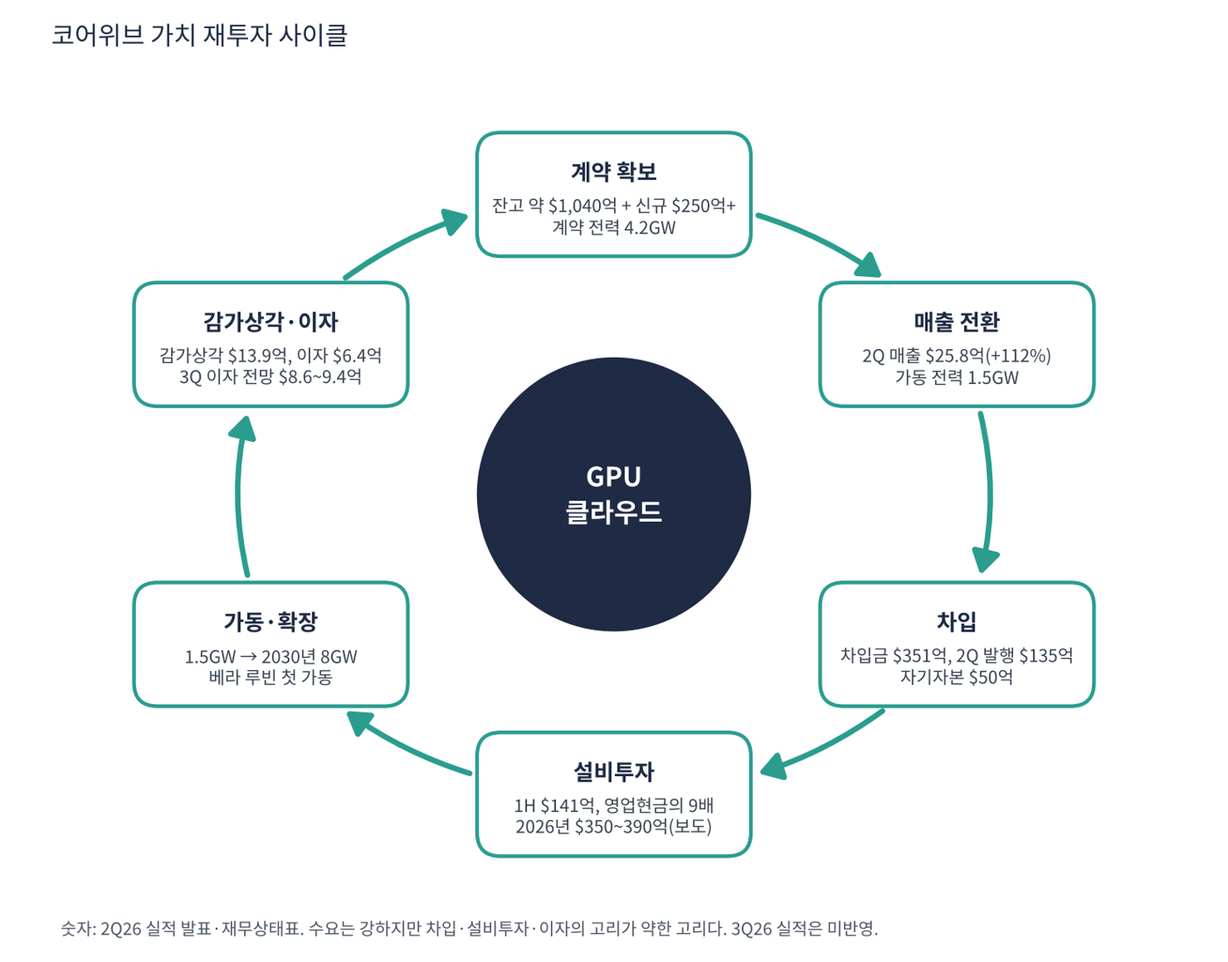
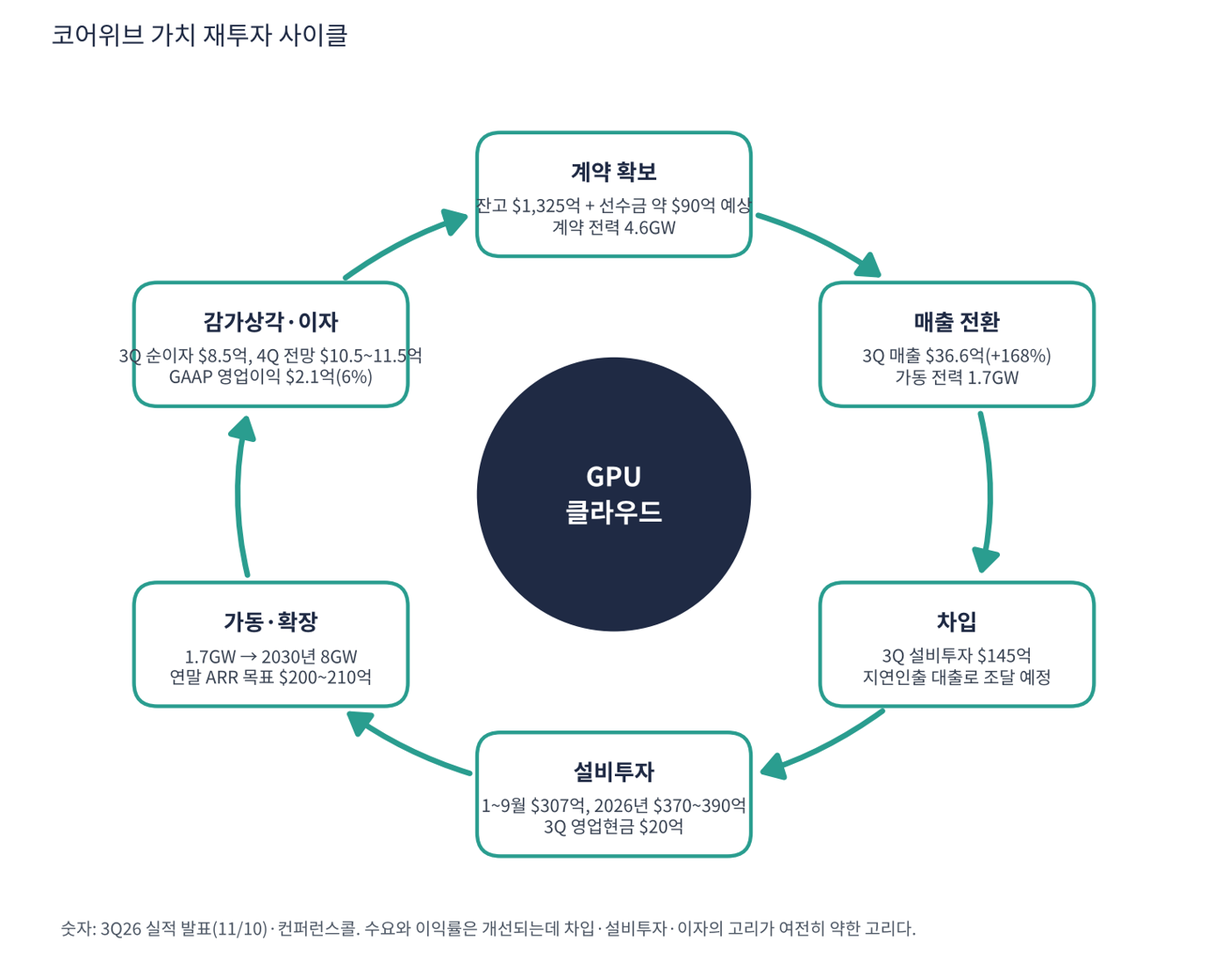
CRWV 3Q26 실적 반영 (11/10 종가 기준)
Claude-Session: https://claude.ai/code/session_018spZhVx3tUdVWG7ajikTu3

diff --git a/content/crwv/body.html b/content/crwv/body.html
@@ -1,18 +1,18 @@
 <div class="kicker">COREWEAVE, INC. · NASDAQ: CRWV · 기업분석 (10항목 심층 양식)</div>
-<h1>코어위브 기업분석: 수요는 폭발, 현금은 한 분기, 이자가 영업이익의 5배</h1>
-<div class="meta"><b>자료</b> 코어위브 SEC 8-K 실적 발표문(3Q25 ~ 2Q26, 전년 동기 열로 3Q24부터 8개 분기 확보, 인트레이터 CEO 코멘트), 2Q26 재무상태표·현금흐름표, 코어위브 보도자료(2026.8 계약 전력·단기 계약 단가), 트레이딩뷰 스캐너(EBITDA·FCF·부채·동종업계), 트레이딩뷰 CRWV 일봉·주봉(2026.11.06 종가) &nbsp;|&nbsp; <b>작성일</b> 2026.11.10<br>PEG 판정 기준: 1.0 이하 투자 적격, 0.5 이하 적극 매수. <b>3분기(2026년 7~9월) 실적은 미국 시간 11/10 장 마감 후 발표라 반영하지 못했다.</b> 2026년 설비투자·이자·연말 매출 목표는 컨퍼런스콜 내용을 인용한 보도 기준이다. 매매 권유가 아니다.</div>
-<div class="dark"><div class="lab">한 줄 요약</div><div class="txt">AI 연산을 빌려주는 GPU 클라우드다. 매출이 2년 만에 4.4배가 되고 계약 잔고가 $1,040억이지만 회사는 순손실이고 부채 $351억·자기자본 $50억의 구조다. 한 분기 FCF(-$57억)가 현금($55억)과 같고 이자($6.4억)가 조정 영업이익($1.3억)의 5배다. 주가는 5월 고점에서 66% 빠져 신저가권이며 CTA는 -1.00이고 3분기 실적은 아직 반영되지 않았다.</div></div>
-<div class="box"><b class="t">핵심 포인트</b><ol><li><b>재무</b>: 2Q26 매출 $25.8억(+112%), 조정 EBITDA $15.1억(59%), 영업손실 -$0.5억, 순손실 -$6.3억. 이자비용 $6.4억 > 조정 영업이익.</li><li><b>현금·P/S</b>: 현금 $55.2억, 분기 FCF -$57.4억(런웨이 약 1분기), TTM FCF -$136.6억. P/S 3.4배.</li><li><b>EBITDA·PEG</b>: EBITDA $37.6억(TTM). PEG 산출 불가(순손실). 영업 손익분기에는 EBITDA 연 $92억 필요.</li><li><b>사이클</b>: 장기 계약 → 차입 → 설비투자 → 가동 → 매출. 약한 고리는 부채·설비투자·이자.</li><li><b>차트</b>: 8개 신호 모두 매도, 200일선의 절반 가격. 실적 확인 후 $48~52 분할 진입(비중 30%), 목표 $55/$61, 손절 $38.</li></ol></div>
+<h1>코어위브 기업분석: 수요·이익률은 개선, 이자는 여전히 GAAP 영업이익의 4배</h1>
+<div class="meta"><b>자료</b> 코어위브 SEC 8-K 실적 발표문(3Q26 실적은 8-K 원문이 아닌 언론·콜 요약 보도 인용, 2Q26까지는 8-K와 전년 동기 열로 8개 분기 확보), 2Q26 재무상태표(3Q26 재무상태표는 미확인), 코어위브 보도자료(2026.8 단기 계약 단가), 트레이딩뷰 스캐너(EBITDA·FCF·부채·동종업계), 트레이딩뷰 CRWV 일봉·주봉(2026.11.10 종가) &nbsp;|&nbsp; <b>작성일</b> 2026.11.11<br>PEG 판정 기준: 1.0 이하 투자 적격, 0.5 이하 적극 매수. <b>주가는 3분기 실적 발표 전 11/10 종가다.</b> 3분기 영업현금·설비투자·4분기 전망은 콜 내용을 인용한 보도 기준이고 TTM FCF·런웨이·손익분기는 내 계산이다. 매매 권유가 아니다.</div>
+<div class="dark"><div class="lab">한 줄 요약</div><div class="txt">AI 연산을 빌려주는 GPU 클라우드다. 3분기 매출 $36.6억(+169%), 계약 잔고 $1,325억, GAAP 영업이익은 흑자로 돌아섰지만 순손실 -$7.1억이고 6월 말 기준 부채 $351억·자기자본 $50억의 구조다. 3분기 FCF(-$125억)가 6월 말 현금($55억)의 2배를 넘고 이자($8.5억)가 GAAP 영업이익($2.1억)의 4배다. 주가는 5월 고점 대비 65% 낮은 신저가권이고 CTA는 -1.00이며 주가는 실적 발표 전 가격이다.</div></div>
+<div class="box"><b class="t">핵심 포인트</b><ol><li><b>재무</b>: 3Q26 매출 $36.6억(+169%), 조정 EBITDA $23.0억(63%), GAAP 영업이익 $2.1억, 순손실 -$7.1억, EPS -1.27. 이자비용 $8.5억 > 영업이익.</li><li><b>현금·P/S</b>: 3Q 설비투자 $145.1억, FCF -$125.1억(6월 말 현금 $55.2억 기준 런웨이 약 0.4분기), TTM FCF -$254.7억. P/S 2.7배.</li><li><b>EBITDA·PEG</b>: TTM 조정 EBITDA $58.7억. PEG 산출 불가(순손실). 순이익 0에는 EBITDA 연 $111억 필요.</li><li><b>사이클</b>: 장기 계약 → 차입 → 설비투자 → 가동 → 매출. 약한 고리는 부채·설비투자·이자.</li><li><b>차트</b>: 8개 신호 모두 매도, 200일선 대비 -46%. 실적 반응 확인 후 $46~50 분할 진입(비중 30%), 목표 $56/$62, 손절 $38.</li></ol></div>
 
 <h2><span class="n">01</span>어떤 회사인가</h2>
 <p>코어위브는 원래 암호화폐 채굴 회사로 시작해 2019년 이후 GPU를 AI 기업에 빌려주는 사업으로 전환한 'GPU 클라우드' 회사다. 엔비디아가 투자했고 최신 GPU를 가장 먼저 대량으로 받는 곳 중 하나다. 2025년 3월 나스닥에 상장했고 2026년 나스닥-100에 편입됐다. 마이크로소프트·오픈AI·메타 같은 대형 고객과 수년짜리 계약을 맺고 <b>그 계약을 담보로 돈을 빌려 데이터센터를 짓는</b> 구조다.</p><table><tr><th style="width:20%">항목</th><th>내용</th></tr>
 <tr><td><b>종목</b></td><td>CoreWeave, Inc. (CRWV) · NASDAQ · AI 클라우드 · 2017년 설립 · 본사 뉴저지주 리빙스턴</td></tr>
-<tr><td><b>시가총액</b></td><td>약 $256억 · 순손실이라 PER 없음 · P/S 3.4배 (11/6 종가 $46.40)</td></tr>
-<tr><td><b>최근 발표 분기(2Q26)</b></td><td>매출 $25.8억(+112%), 조정 EBITDA $15.1억(마진 59%), 영업손실 -$0.5억, 순손실 -$6.3억</td></tr>
-<tr><td><b>계약 잔고</b></td><td>약 $1,040억(6월 말) + 7월 초 신규 약정 $250억 이상(잔고 미반영). 계약 전력 3.7GW → 4.2GW(8월), 가동 전력 1.5GW</td></tr>
-<tr><td><b>재무 구조(6월 말)</b></td><td>현금 $55.2억, 차입금 $351억, 리스 부채 약 $163억, 자기자본 $50억</td></tr>
+<tr><td><b>시가총액</b></td><td>약 $269억 · 순손실이라 PER 없음 · P/S 2.7배 (11/10 종가 $48.73, 3분기 실적 발표 전 가격)</td></tr>
+<tr><td><b>최근 발표 분기(3Q26)</b></td><td>매출 $36.6억(+169%), 조정 EBITDA $23.0억(마진 63%), GAAP 영업이익 $2.1억(흑자 복귀), 순손실 -$7.1억, EPS -1.27</td></tr>
+<tr><td><b>계약 잔고</b></td><td>$1,325억(9월 말, 6월 말 약 $1,040억에서 증가). 계약 전력 4.6GW, 가동 전력 1.7GW</td></tr>
+<tr><td><b>재무 구조(6월 말, 3분기 재무상태표는 확인 못 함)</b></td><td>현금 $55.2억, 차입금 $351억, 리스 부채 약 $163억, 자기자본 $50억</td></tr>
 <tr><td><b>주요 고객</b></td><td>마이크로소프트(2024년 매출의 약 62%), 오픈AI(누적 계약 약 $224억), 메타(약 $142억 계약), 2026년에는 제인 스트리트·데이터브릭스·캐터필러 등 기업 고객 확대 (2025년 공시·보도 기준)</td></tr>
-<tr><td><b>다음 실적</b></td><td>3Q26 실적: 미국 시간 11/10 장 마감 후(오후 5시 ET 컨퍼런스콜). <b>이 보고서에는 반영하지 못했다</b></td></tr>
+<tr><td><b>다음 실적</b></td><td>4Q26 실적: 2027년 2~3월 예상(일정 미확정). 3Q 실적은 11/10 장 마감 후 발표돼 <b>주가(11/10 종가)에는 아직 반영되지 않았다</b></td></tr>
 </table>
 
 
@@ -20,21 +20,20 @@
 <table><tr><th style="width:20%">직책</th><th style="width:16%">인물</th><th>역할·특징</th></tr>
 <tr><td>공동 창업자·회장 겸 CEO</td><td><b>마이클 인트레이터</b></td><td>채굴업에서 GPU 클라우드로 전환을 이끈 창업자. 2분기에 "규모가 운영 레버리지로 바뀌기 시작하는 변곡점에 도달했다"고 말함</td></tr>
 </table>
-<p><b>경영 스타일: '계약을 먼저 확보하고, 그 계약으로 돈을 빌려 짓는다'.</b> 한 분기에 가동 전력을 약 500MW 늘렸고, 2분기에만 부채 $135억을 발행했다. 제인 스트리트 $10억 지분 투자, 무담보 채권·전환사채 $100억 이상, HPC 인프라 담보 최초의 공모 신디케이트 대출 $31억 등 조달 경로를 계속 넓힌다. 회사는 가이던스를 보도자료가 아닌 컨퍼런스콜에서만 제시한다. 2분기 이후 보도된 전망은 2026년 설비투자 $350~390억(2분기에 범위 상단 초과 후 상향), 3분기 이자비용 $8.6~9.4억(2분기 $6.4억), 2026년 말 연환산 매출 $185~195억이며, 이 수치는 컨퍼런스콜 원문이 아니라 보도 인용이라 3분기 콜에서 재확인이 필요하다.</p><div class="two"><div class="card"><h4>기술: AI 전용으로 설계한 GPU 클라우드</h4><p>범용 클라우드와 달리 처음부터 GPU 학습·추론용으로 설계했다. 엔비디아 베라 루빈 NVL72를 업계 최초로 가동 검증했고, 학습 작업 관리(SUNK)·스토리지·에이전트 도구(ARIA·샌드박스)를 얹어 GPU 임대의 '상품화'를 막는다.</p></div><div class="card"><h4>비전: AI 시대의 '전력·연산 유틸리티'</h4><p>2030년 8GW 이상의 전력을 확보해 AI 연산을 수도·전기처럼 공급하는 것이 목표다. 구글 클라우드와 전용 회선으로 연결하는 등 멀티 클라우드로 하이퍼스케일러를 보완한다. 유틸리티처럼 자본이 먼저 들어가는 사업이라 자본 조달 비용이 성패를 가른다.</p></div></div>
+<p><b>경영 스타일: '계약을 먼저 확보하고, 그 계약으로 돈을 빌려 짓는다'.</b> 3분기 계약 전력은 4.6GW, 가동 전력은 1.7GW(2분기 1.5GW)로 늘었다. 2분기에만 부채 $135억을 발행했다. 제인 스트리트 $10억 지분 투자, 무담보 채권·전환사채 $100억 이상, HPC 인프라 담보 최초의 공모 신디케이트 대출 $31억 등 조달 경로를 계속 넓힌다. 회사는 가이던스를 보도자료가 아닌 컨퍼런스콜에서만 제시한다. 3분기 발표 후 보도된 내용은 4분기 설비투자 약 $73.5억(연간 전망에서 누계를 뺀 역산), 3분기 이자비용 $8.5억(직전 전망 $8.6~9.4억 하단 아래)이다. 이 수치는 8-K 원문이 아니라 언론·콜 요약 보도(Investing.com, CNBC, Benzinga 등) 인용이라 회사 자료로 재확인이 필요하다.</p><div class="two"><div class="card"><h4>기술: AI 전용으로 설계한 GPU 클라우드</h4><p>범용 클라우드와 달리 처음부터 GPU 학습·추론용으로 설계했다. 엔비디아 베라 루빈 NVL72를 업계 최초로 가동 검증했고, 학습 작업 관리(SUNK)·스토리지·에이전트 도구(ARIA·샌드박스)를 얹어 GPU 임대의 '상품화'를 막는다.</p></div><div class="card"><h4>비전: AI 시대의 '전력·연산 유틸리티'</h4><p>2030년 8GW 이상의 전력을 확보해 AI 연산을 수도·전기처럼 공급하는 것이 목표다. 구글 클라우드와 전용 회선으로 연결하는 등 멀티 클라우드로 하이퍼스케일러를 보완한다. 유틸리티처럼 자본이 먼저 들어가는 사업이라 자본 조달 비용이 성패를 가른다.</p></div></div>
 
 <h2><span class="n">03</span>재무 흐름: 최근 8개 분기</h2>
 <table><tr><th>분기</th><th class="r">매출</th><th class="r">조정 EBITDA</th><th class="r">영업이익</th><th class="r">이자비용</th><th class="r">순손익</th><th class="r">EPS</th><th class="r">설비투자</th><th>특이 사항</th></tr>
-<tr><td>2024.3Q</td><td class="r">$5.8억</td><td class="r">$3.8억</td><td class="r">$1.2억</td><td class="r">$1.0억</td><td class="r">-$3.6억</td><td class="r">-1.82</td><td class="r">$12.2억</td><td>상장 전</td></tr>
 <tr><td>2024.4Q</td><td class="r">$7.5억</td><td class="r">$4.9억</td><td class="r">$1.1억</td><td class="r">$1.5억</td><td class="r">-$0.5억</td><td class="r">-0.24*</td><td class="r">$35.0억</td><td></td></tr>
 <tr><td>2025.1Q</td><td class="r">$9.8억</td><td class="r">$6.1억</td><td class="r">-$0.3억</td><td class="r">$2.6억</td><td class="r">-$3.2억</td><td class="r">-1.49</td><td class="r">$14.1억</td><td>3월 상장</td></tr>
 <tr><td>2025.2Q</td><td class="r">$12.1억</td><td class="r">$7.5억</td><td class="r">$0.2억</td><td class="r">$2.7억</td><td class="r">-$2.9억</td><td class="r">-0.60</td><td class="r">$24.5억</td><td></td></tr>
 <tr><td>2025.3Q</td><td class="r">$13.6억</td><td class="r">$8.4억</td><td class="r">$0.5억</td><td class="r">$3.1억</td><td class="r">-$1.1억</td><td class="r">-0.22</td><td class="r">$32.8억</td><td>잔고 $550억+</td></tr>
 <tr><td>2025.4Q</td><td class="r">$15.7억</td><td class="r">$9.0억</td><td class="r">-$0.9억</td><td class="r">$3.9억</td><td class="r">-$4.5억</td><td class="r">-0.50*</td><td class="r">$40.6억</td><td>잔고 $668억</td></tr>
 <tr><td>2026.1Q</td><td class="r">$20.8억</td><td class="r">$11.6억</td><td class="r">-$1.4억</td><td class="r">$5.4억</td><td class="r">-$7.4억</td><td class="r">-1.40</td><td class="r">$77.0억</td><td>잔고 약 $1,000억</td></tr>
-<tr class="hl"><td>2026.2Q</td><td class="r">$25.8억</td><td class="r">$15.1억</td><td class="r">-$0.5억</td><td class="r">$6.4억</td><td class="r">-$6.3억</td><td class="r">-1.14</td><td class="r">$64.2억</td><td>잔고 약 $1,040억</td></tr>
+<tr><td>2026.2Q</td><td class="r">$25.8억</td><td class="r">$15.1억</td><td class="r">-$0.5억</td><td class="r">$6.4억</td><td class="r">-$6.3억</td><td class="r">-1.14</td><td class="r">$64.2억</td><td>잔고 약 $1,040억</td></tr>
+<tr class="hl"><td>2026.3Q</td><td class="r">$36.6억</td><td class="r">$23.0억</td><td class="r">$2.1억</td><td class="r">$8.5억</td><td class="r">-$7.1억</td><td class="r">-1.27</td><td class="r">$145.1억</td><td>잔고 $1,325억</td></tr>
 </table>
-<p class="note">EPS는 희석 주당순이익(GAAP, SEC 제출 자료 기준)이다. *는 4분기를 '연간 EPS − 1~3분기 합'으로 계산한 근사치라 실제 발표값과 다를 수 있다.</p>
-<img class="ch" src="c_rev.png"><img class="ch" src="c_cf.png"><p><b>흐름 요약</b>: 매출은 폭발적으로 늘지만 이익은 따라오지 않는다. 2년 동안 매출이 4.4배가 됐는데 영업이익은 $1.2억 흑자에서 $0.5억 적자로 바뀌었다. 이유는 감가상각비(분기 $5.6억 → $13.9억, 2.5배)와 이자비용($1.0억 → $6.4억, 6배)이다. GPU 서버는 5~6년에 걸쳐 비용 처리되는데 새로 산 서버가 매출을 내기 전에 비용이 먼저 잡힌다. <b>사업 자체의 현금 마진은 좋다</b>. 조정 EBITDA 마진이 56~65%다. 문제는 그 아래다. EBITDA에서 감가상각과 이자를 빼면 순이익률이 -24%다. 현금흐름은 빚이 메운다. 2분기 영업현금 $6.8억에 설비투자 $64.2억, 차이 $57억을 부채로 조달했다. 1분기 영업현금 $29.8억에는 고객 선수금이 크게 들어왔고, 재무상태표의 이연 매출은 $97억이다.</p><table><tr><th>재무상태표 (2026.6.30)</th><th class="r">금액</th><th>의미</th></tr>
+<p class='note'>EPS는 희석 주당순이익(GAAP, SEC 제출 자료 기준)이다. *는 4분기를 '연간 EPS − 1~3분기 합'으로 계산한 근사치라 실제 발표값과 다를 수 있다. 영업이익은 GAAP 기준이다.</p><img class="ch" src="c_rev.png"><img class="ch" src="c_cf.png"><p><b>흐름 요약</b>: 3분기에 GAAP 영업이익이 흑자(+$2.1억)로 돌아섰다(2025년 3분기 이후 첫 흑자). 매출이 7분기 만에 4.9배($7.5억 → $36.6억)가 되는 동안 이자비용도 5.7배($1.5억 → $8.5억)로 늘었다. 영업이익이 흑자가 됐지만 이자가 영업이익의 4배라 <b>순손실은 -$7.1억(순이익률 -19%)으로 오히려 커졌다</b>. <b>사업 자체의 현금 마진은 좋다</b>. 조정 EBITDA 마진이 3분기 63%로 2분기(59%)보다 올랐다. 문제는 그 아래다. 조정 EBITDA $23.0억에서 감가상각 등 약 $19.2억을 빼면 조정 영업이익 $3.8억(10%)이고, 이자 $8.5억을 빼면 적자다. 현금흐름은 빚이 메운다. 3분기 영업현금 약 $20억에 설비투자 $145.1억(분기 최대, 2분기의 2.3배), 차이 $125억을 외부 조달로 메웠다(조달 내역은 확인 못 함). 6월 말 이연 매출은 $97억이었다.</p><table><tr><th>재무상태표 (2026.6.30, 3Q 미확인)</th><th class="r">금액</th><th>의미</th></tr>
 <tr><td>현금·현금성자산</td><td class="r">$55.2억</td><td>연초 $31.3억에서 증가(부채 조달)</td></tr>
 <tr><td>유형자산(GPU·데이터센터)</td><td class="r">$467억</td><td>연초 $306억에서 6개월 만에 +53%</td></tr>
 <tr><td>차입금(소구 + 비소구)</td><td class="r">$351억</td><td>소구 $314억 + 비소구 $37억</td></tr>
@@ -45,14 +44,14 @@
 
 <h2><span class="n">04</span>매출 구조</h2>
 <table><tr><th style="width:18%">구성</th><th>돈을 버는 방식</th></tr>
-<tr><td><b>장기 약정 계약</b></td><td>고객이 GPU 용량을 2~5년간 쓰기로 약정하고 매달 요금을 낸다. 매출의 대부분이며 계약 잔고(약 $1,040억)의 원천. 일부는 선금으로 받는다</td></tr>
+<tr><td><b>장기 약정 계약</b></td><td>고객이 GPU 용량을 2~5년간 쓰기로 약정하고 매달 요금을 낸다. 매출의 대부분이며 계약 잔고($1,325억)의 원천. 일부는 선금으로 받는다</td></tr>
 <tr><td><b>주문형(On-demand)</b></td><td>약정 없이 쓰는 만큼 내는 사용료. 비중은 작다. 3분기 중 약 3~6개월짜리 단기 계약을 메가와트당 연 약 $4,000만 가격으로 맺었다고 회사가 발표(보도자료)</td></tr>
 <tr><td><b>소프트웨어·서비스</b></td><td>SUNK(학습 작업 관리), 관측·스토리지, ARIA·샌드박스 등 에이전트 AI 도구. GPU 임대에 얹어 파는 구조</td></tr>
 </table>
-<img class="ch" src="c_mix.png"><p><b>코어위브의 매출은 전력(MW)에 비례한다.</b> 데이터센터 전력이 곧 GPU를 꽂을 수 있는 용량이다. 가동 전력은 1년 사이 약 590MW(3Q25)에서 1.5GW(2Q26)로 2.5배가 됐고 계약 전력은 3.7GW(6월 말)에서 4.2GW(8월 11일)로 늘었다. 계약 전력이 모두 가동되면 매출이 지금의 2배 이상이 될 수 있다. 반대로 데이터센터 완공이 늦어지면 매출 인식이 미뤄진다. 2025년 11월 주가 급락이 그런 사례였다. 주요 고객 집중이 높아 소수 고객이 잔고 대부분을 차지한다.</p>
+<img class="ch" src="c_mix.png"><p><b>코어위브의 매출은 전력(MW)에 비례한다.</b> 데이터센터 전력이 곧 GPU를 꽂을 수 있는 용량이다. 가동 전력은 1년 사이 약 590MW(3Q25)에서 1.7GW(3Q26)로 2.9배가 됐고 계약 전력은 3.7GW(2Q26)에서 4.6GW(3Q26)로 늘었다. 계약 전력 4.6GW 중 가동 1.7GW라, 모두 가동되면 매출이 지금의 2배 이상이 될 수 있다(내 추정). 반대로 데이터센터 완공이 늦어지면 매출 인식이 미뤄진다. 2025년 11월 주가 급락이 그런 사례였다. 주요 고객 집중이 높아 소수 고객이 잔고 대부분을 차지한다.</p>
 
 <h2><span class="n">05</span>회사의 궁극적 목적</h2>
-<p>인트레이터 CEO의 2분기 메시지는 "AI가 모든 산업의 기반이 되고, 그 잠재력을 실현하려면 목적에 맞게 설계된 플랫폼이 필요하다"는 것이다. 코어위브가 가려는 곳은 <b>GPU 임대업자에서 'AI 시대의 전력·연산 유틸리티'</b>다.</p><table><tr><th style="width:18%">축</th><th>내용</th></tr>
+<p>인트레이터 CEO의 메시지는 "AI가 모든 산업의 기반이 되고, 그 잠재력을 실현하려면 목적에 맞게 설계된 플랫폼이 필요하다"는 것이다. 코어위브가 가려는 곳은 <b>GPU 임대업자에서 'AI 시대의 전력·연산 유틸리티'</b>다.</p><table><tr><th style="width:18%">축</th><th>내용</th></tr>
 <tr><td>AI 전용 클라우드</td><td>범용 클라우드와 달리 처음부터 GPU 학습·추론용으로 설계. 토큰당 비용과 성능 기록을 내세움</td></tr>
 <tr><td>엔비디아 최신 GPU 선점</td><td>베라 루빈 NVL72 업계 최초 가동 검증. 새 GPU를 가장 빨리 고객에게 공급하는 것이 경쟁력</td></tr>
 <tr><td>멀티 클라우드</td><td>구글 클라우드와 전용 회선 연결, 다른 클라우드에서도 SUNK·데이터 가속 사용. 하이퍼스케일러와 경쟁하면서 보완</td></tr>
@@ -61,37 +60,37 @@
 <div class="box"><b class="t">정리 — 코어위브가 가려는 곳</b><br>GPU 임대업자 → <b>2030년 8GW 이상의 AI 연산 유틸리티</b>. 유틸리티처럼 막대한 자본이 먼저 들어가는 사업이라 자본 조달 비용이 성패를 가른다. 지금까지 수요를 의심하는 경영진 코멘트는 없었고, 시장이 의심하는 것은 수요를 채울 돈과 시간이다.</div>
 
 <h2 class="pb"><span class="n">06</span>CTA 방식 차트 분석</h2>
-<img class="ch" src="c_price.png"><img class="ch" src="tv_clean.jpg"><p class="small">위: 트레이딩뷰 주봉 데이터로 재구성(10·20·40주선). 아래: 트레이딩뷰 공개 차트 일봉 캡처(작도 숨김, 이동평균선·볼린저밴드만 표시).</p><h3>1. 이동평균선 배열</h3><table><tr><th>이동평균</th><th class="r">값</th><th class="r">종가 대비</th><th>해석</th></tr>
-<tr><td>5일선</td><td class="r">$48.47</td><td class="r">-4.3%</td><td>신저가 후 첫 반등(+6.3%)</td></tr>
-<tr><td>20일선</td><td class="r">$59.33</td><td class="r">-21.8%</td><td>10월 갭 하락 구간</td></tr>
-<tr><td>50일선</td><td class="r">$75.56</td><td class="r">-38.6%</td><td>9~10월 박스($80~90) 아래</td></tr>
-<tr><td>100일선</td><td class="r">$82.03</td><td class="r">-43.4%</td><td></td></tr>
-<tr><td>200일선</td><td class="r">$90.17</td><td class="r">-48.5%</td><td>주가의 거의 2배</td></tr>
+<img class="ch" src="c_price.png"><h3>1. 이동평균선 배열</h3><table><tr><th>이동평균</th><th class="r">값</th><th class="r">종가 대비</th><th>해석</th></tr>
+<tr><td>5일선</td><td class="r">$47.24</td><td class="r">+3.2%</td><td>신저가 후 반등으로 회복</td></tr>
+<tr><td>20일선</td><td class="r">$56.31</td><td class="r">-13.5%</td><td>10월 갭 하락 구간</td></tr>
+<tr><td>50일선</td><td class="r">$74.13</td><td class="r">-34.3%</td><td>9~10월 박스($80~90) 아래</td></tr>
+<tr><td>100일선</td><td class="r">$80.67</td><td class="r">-39.6%</td><td></td></tr>
+<tr><td>200일선</td><td class="r">$89.71</td><td class="r">-45.7%</td><td>주가의 거의 2배</td></tr>
 </table>
-<p>배열은 200일 > 100일 > 50일 > 20일 > 5일 > 주가로 완전한 역배열이다. 2025년 9~10월 대형 계약 발표로 $89 → $153, 11월 실적(데이터센터 지연) 후 $65, 2026년 4~5월 잔고 약 $1,000억 발표로 $75 → $138(5/6 고점), 7월 $60.5, 8월 2분기 실적 후 $70 → $117, 9월 $80~90, 10월 둘째 주부터 4주 만에 $82 → $40.6(-51%), 11/5 신저가 후 $46.4에 마감했다.</p><h3>2. CTA 신호 스코어카드</h3><table><tr><th>규칙</th><th>기준</th><th>현재 값</th><th>신호</th></tr>
-<tr><td>장기 추세 필터</td><td>종가 vs 200일선</td><td>$46.40 &lt; $90.17</td><td><span class="tag b">매도</span></td></tr>
-<tr><td>중장기 교차</td><td>50일선 vs 200일선</td><td>$75.56 &lt; $90.17</td><td><span class="tag b">매도</span></td></tr>
-<tr><td>단기 교차</td><td>20일선 vs 50일선</td><td>$59.33 &lt; $75.56</td><td><span class="tag b">매도</span></td></tr>
+<p>배열은 200일 > 100일 > 50일 > 20일 > 주가 > 5일선으로, 주가가 5일선만 회복한 역배열이다. 2025년 9~10월 대형 계약 발표로 $89 → $153, 11월 실적(데이터센터 지연) 후 $65, 2026년 4~5월 잔고 약 $1,000억 발표로 $75 → $138(5/6 고점), 7월 $60.5, 8월 2분기 실적 후 $70 → $117, 9월 $80~90, 10월 둘째 주부터 4주 만에 $82 → $40.6(-51%), 11/5 신저가($40.6) 후 반등해 11/10 $48.73에 마감했다.</p><h3>2. CTA 신호 스코어카드</h3><table><tr><th>규칙</th><th>기준</th><th>현재 값</th><th>신호</th></tr>
+<tr><td>장기 추세 필터</td><td>종가 vs 200일선</td><td>$48.73 &lt; $89.71</td><td><span class="tag b">매도</span></td></tr>
+<tr><td>중장기 교차</td><td>50일선 vs 200일선</td><td>$74.13 &lt; $89.71</td><td><span class="tag b">매도</span></td></tr>
+<tr><td>단기 교차</td><td>20일선 vs 50일선</td><td>$56.31 &lt; $74.13</td><td><span class="tag b">매도</span></td></tr>
 <tr><td>돈키언 채널</td><td>55일 고가 $104.59 / 저가 $40.58</td><td>중간값 $72.59 아래</td><td><span class="tag b">매도</span></td></tr>
-<tr><td>1개월 모멘텀</td><td>21거래일 수익률</td><td>-43.1% (기준 $81.58)</td><td><span class="tag b">매도</span></td></tr>
-<tr><td>3개월 모멘텀</td><td>63거래일 수익률</td><td>-47.4% (기준 $88.19)</td><td><span class="tag b">매도</span></td></tr>
-<tr><td>6개월 모멘텀</td><td>126거래일 수익률</td><td>-59.4% (기준 $114.15)</td><td><span class="tag b">매도</span></td></tr>
-<tr><td>12개월 모멘텀</td><td>252거래일 수익률</td><td>-59.4% (기준 $114.42)</td><td><span class="tag b">매도</span></td></tr>
+<tr><td>1개월 모멘텀</td><td>21거래일 수익률</td><td>-39.3% (기준 $80.26)</td><td><span class="tag b">매도</span></td></tr>
+<tr><td>3개월 모멘텀</td><td>63거래일 수익률</td><td>-54.8% (기준 $107.73)</td><td><span class="tag b">매도</span></td></tr>
+<tr><td>6개월 모멘텀</td><td>126거래일 수익률</td><td>-54.8% (기준 $107.75)</td><td><span class="tag b">매도</span></td></tr>
+<tr><td>12개월 모멘텀</td><td>252거래일 수익률</td><td>-53.1% (기준 $104.01)</td><td><span class="tag b">매도</span></td></tr>
 <tr class="hl"><td><b>종합 (8개 평균)</b></td><td></td><td><b>-1.00</b></td><td><span class="tag b">강한 매도</span></td></tr>
 </table>
-<p><b>해석</b>: 8개 신호가 모두 매도(-1.00)이고 낙폭도 오라클보다 크다. 14일 ATR $5.67 (12.2%)은 주가의 12.2%로, 실적 발표 하루에 ±20~30%가 나와도 이상하지 않다. 2025년 11월과 2026년 8월 실적 주에는 각각 -26%, +16%였다. 3분기 실적(미국 시간 11/10 장 마감 후)이 단기 방향을 정하는 이벤트이고 이 보고서는 그 결과를 반영하지 않았다.</p><h3>3. CTA 신호 전환선</h3><table><tr><th>가격</th><th>무엇이 바뀌나</th><th>의미</th></tr>
-<tr><td><b>$54 ~ 55</b></td><td>10월 말 박스 상단</td><td>단기 반등 1차 저항</td></tr>
-<tr><td><b>$59 ~ 61</b></td><td>20일선, 10월 갭</td><td>단기 추세 회복 확인</td></tr>
+<p><b>해석</b>: 8개 신호가 모두 매도(-1.00)다. 14일 ATR $5.42 (11.1%)은 주가의 11.1%다. 2025년 11월과 2026년 8월 실적 주에는 각각 -26%, +16%였다. 3분기 실적은 11/10 장 마감 후 발표돼 이 가격(11/10 종가)에는 반영되지 않았고, 11/11 장의 반응이 단기 방향을 정한다.</p><h3>3. CTA 신호 전환선</h3><table><tr><th>가격</th><th>무엇이 바뀌나</th><th>의미</th></tr>
+<tr><td><b>$56</b></td><td>20일선 ($56.3)</td><td>단기 추세 회복의 첫 관문</td></tr>
+<tr><td><b>$61 ~ 65</b></td><td>10월 갭 구간</td><td>갭 메우기 확인</td></tr>
 <tr><td><b>$72.6</b></td><td>돈키언 중간값</td><td>채널 신호 매수 전환</td></tr>
 <tr><td><b>$40.6 이탈</b></td><td>신저가 갱신</td><td>지지선 없는 구간</td></tr>
 </table>
 <h3>4. 지지·저항</h3><table><tr><th>구분</th><th>가격대</th><th>근거</th></tr>
-<tr><td>저항 2</td><td>$59 ~ 65</td><td>20일선, 10월 둘째 주 갭</td></tr>
-<tr><td>저항 1</td><td>$51 ~ 55</td><td>10월 말 박스</td></tr>
-<tr><td>지지 1</td><td>$40 ~ 43</td><td>11/5 신저가, 11/5~6 종가대</td></tr>
+<tr><td>저항 2</td><td>$61 ~ 65</td><td>10월 둘째 주 갭</td></tr>
+<tr><td>저항 1</td><td>$54 ~ 56</td><td>10월 말 박스, 20일선</td></tr>
+<tr><td>지지 1</td><td>$40 ~ 43</td><td>11/5 신저가($40.6)</td></tr>
 <tr><td>지지 2</td><td>$35 전후</td><td>공모가($40) 아래 심리적 구간</td></tr>
 </table>
-<h3>5. 대응 시나리오</h3><div class="strat"><div><div class="k">분할 매수 구간</div><div class="v">실적 확인 후 $48 ~ 52 (비중 30%)</div></div><div><div class="k">1차 / 2차 목표</div><div class="v">$55 / $61</div></div><div><div class="k">손절 (종가 기준)</div><div class="v">$38</div></div></div><p>사업은 커지고 있지만 주식은 '신용 위험 자산'처럼 움직인다. <b>실적 발표 전 신규 진입은 동전 던지기에 가깝다.</b> 발표 후 $51 이상 종가 유지, 3분기 잔고 $1,200억 이상, 2027년 자금 조달이 주식 희석 없이 제시되는 조건을 확인한 뒤 $48~52에서 계획 비중의 30%(변동성이 커서 다른 종목의 절반 이하 비중)를 진입한다. 손절은 $38 종가 이탈이다. 목표는 1차 $55(10월 말 박스), 2차 $61(20일선·갭)이다. $40.6을 이탈하면(공모가 아래 신저가) 매수를 금지하고 지지선이 없는 구간이라 관망한다.</p>
+<h3>5. 대응 시나리오</h3><div class="strat"><div><div class="k">분할 매수 구간</div><div class="v">실적 반응 확인 후 $46 ~ 50 (비중 30%)</div></div><div><div class="k">1차 / 2차 목표</div><div class="v">$56 / $62</div></div><div><div class="k">손절 (종가 기준)</div><div class="v">$38</div></div></div><p>사업은 커지고 있지만 주식은 '신용 위험 자산'처럼 움직인다. 3분기는 수요(잔고 $1,325억, 매출 +169%)와 이익률(조정 EBITDA 63%, GAAP 영업 흑자)이 개선됐고 이자($8.5억)는 직전 전망 하단 아래였다. 반면 설비투자 $145.1억과 FCF -$125.1억은 오히려 커져 자금 조달 부담은 더 커졌다. <b>실적 직후 반응을 모르는 상태의 신규 진입은 동전 던지기에 가깝다.</b> 11/11 장에서 $46~50 구간을 지키고 조달이 주식 희석 없이 제시되는지 확인한 뒤 계획 비중의 30%(변동성이 커서 다른 종목의 절반 이하 비중)를 분할 진입한다(내 시나리오). 손절은 $38 종가 이탈이다. 목표는 1차 $56(20일선), 2차 $62(10월 갭 하단)다. $40.6을 이탈하면(신저가) 매수를 금지하고 지지선이 없는 구간이라 관망한다.</p>
 
 <h2><span class="n">07</span>악재 요인과 동종업계 PER 비교</h2>
 <table><tr><th style="width:18%">악재 요인</th><th>내용</th><th>강도</th></tr>
@@ -101,72 +100,74 @@
 <tr><td><b>GPU 감가상각</b></td><td>엔비디아 신제품 주기가 1년으로 짧아지면 구형 GPU 임대 단가·잔존가치 하락</td><td><span class="tag y">중간</span></td></tr>
 <tr><td><b>경쟁</b></td><td>AWS·애저·구글·오라클, 네비우스 등 다른 GPU 클라우드. 고객이 자체 데이터센터를 지을 가능성</td><td><span class="tag y">중간</span></td></tr>
 </table>
-<h3>동종업계 PER 비교 (트레이딩뷰, 11/6 종가 환산)</h3><table><tr><th>티커</th><th>회사</th><th class="r">시가총액</th><th class="r">PER(TTM)</th><th class="r">PEG</th><th class="r">P/S</th><th class="r">EPS 성장(YoY)</th></tr>
-<tr class="hl"><td><b>CRWV</b></td><td><b>코어위브</b></td><td class="r">$26B</td><td class="r">적자</td><td class="r">–</td><td class="r">3.19배</td><td class="r">–</td></tr>
-<tr><td>NBIS</td><td>네비우스</td><td class="r">$35B</td><td class="r">적자</td><td class="r">–</td><td class="r">24.52배</td><td class="r">–</td></tr>
-<tr><td>ORCL</td><td>오라클</td><td class="r">$351B</td><td class="r">18.2배</td><td class="r">0.37</td><td class="r">4.70배</td><td class="r">+48%</td></tr>
-<tr><td>NVDA</td><td>엔비디아</td><td class="r">$4,498B</td><td class="r">23.6배</td><td class="r">0.20</td><td class="r">15.63배</td><td class="r">+125%</td></tr>
-<tr><td>MSFT</td><td>마이크로소프트</td><td class="r">$3,940B</td><td class="r">27.7배</td><td class="r">0.74</td><td class="r">11.09배</td><td class="r">+36%</td></tr>
-<tr><td>AMZN</td><td>아마존</td><td class="r">$2,804B</td><td class="r">21.0배</td><td class="r">0.27</td><td class="r">3.45배</td><td class="r">+75%</td></tr>
-<tr><td>GOOGL</td><td>알파벳</td><td class="r">$3,476B</td><td class="r">14.9배</td><td class="r">0.17</td><td class="r">7.39배</td><td class="r">+89%</td></tr>
+<h3>동종업계 PER 비교 (트레이딩뷰 스캐너, 11/9 종가)</h3><table><tr><th>티커</th><th>회사</th><th class="r">시가총액</th><th class="r">PER(TTM)</th><th class="r">PEG</th><th class="r">P/S</th><th class="r">EPS 성장(YoY)</th></tr>
+<tr class="hl"><td><b>CRWV</b></td><td><b>코어위브</b></td><td class="r">$27B</td><td class="r">적자</td><td class="r">–</td><td class="r">3.37배</td><td class="r">–</td></tr>
+<tr><td>NBIS</td><td>네비우스</td><td class="r">$38B</td><td class="r">적자</td><td class="r">–</td><td class="r">26.79배</td><td class="r">–</td></tr>
+<tr><td>ORCL</td><td>오라클</td><td class="r">$362B</td><td class="r">18.8배</td><td class="r">0.38</td><td class="r">4.85배</td><td class="r">+48%</td></tr>
+<tr><td>NVDA</td><td>엔비디아</td><td class="r">$4,306B</td><td class="r">22.6배</td><td class="r">0.19</td><td class="r">14.96배</td><td class="r">+125%</td></tr>
+<tr><td>MSFT</td><td>마이크로소프트</td><td class="r">$4,049B</td><td class="r">28.5배</td><td class="r">0.76</td><td class="r">11.40배</td><td class="r">+36%</td></tr>
+<tr><td>AMZN</td><td>아마존</td><td class="r">$2,886B</td><td class="r">21.6배</td><td class="r">0.28</td><td class="r">3.55배</td><td class="r">+75%</td></tr>
+<tr><td>GOOGL</td><td>알파벳</td><td class="r">$3,517B</td><td class="r">15.0배</td><td class="r">0.17</td><td class="r">7.48배</td><td class="r">+89%</td></tr>
 </table>
-<p class='small'>코어위브·네비우스는 순손실이라 PER·PEG가 없다. 표의 코어위브 P/S 3.2배는 트레이딩뷰 값이며 본문의 3.4배는 시총 ÷ 최근 4분기 매출로 직접 계산한 값이다.</p><p><b>비교 결론</b>: 순손실이라 PER 비교는 불가능하다. P/S 3.2배는 네비우스(24.5배)의 8분의 1이지만 오라클(4.7배)·아마존(3.4배)보다 낮아 보이는 이유는 이익이 아니라 차입 부담 때문이다. <b>같은 'AI 인프라'라도 하이퍼스케일러는 번 돈으로 짓고 코어위브는 빌려서 짓는다</b>는 차이가 가격에 반영돼 있다.</p><div class="sum3"><b>결론</b><br>코어위브는 <b>수요(잔고 $1,040억+, 매출 +112%)는 진짜지만 현금으로 버티는 기간이 한 분기 안팎이고 이자가 영업이익의 5배인 회사</b>다. PEG는 산출 불가이고 EBITDA가 연 $92억은 돼야 영업 손실이 끝난다. CTA는 8개 모두 매도(-1.00)다. 3분기 실적(11/10 장 마감 후)이 이 보고서에 반영되지 않았으므로 발표 확인 후 $48~52 분할 진입, 손절 $38, 목표 $55/$61이 원칙이다. 다음 확인 포인트는 3분기 잔고, 설비투자·이자 가이던스, 조달 방식(부채 vs 주식)이다.</div>
+<p class='small'>코어위브·네비우스는 순손실이라 PER·PEG가 없다. 표의 코어위브 P/S 3.4배는 트레이딩뷰 값(2분기까지의 TTM 매출 기준)이며 본문의 2.7배는 3분기를 포함한 최근 4분기 매출로 직접 계산한 값이다.</p><p><b>비교 결론</b>: 순손실이라 PER 비교는 불가능하다. P/S 2.7배(직접 계산)는 네비우스(26.8배)의 10분의 1이고 오라클(4.9배)·아마존(3.6배)보다 낮아 보이는 이유는 이익이 아니라 차입 부담 때문이다. <b>같은 'AI 인프라'라도 하이퍼스케일러는 번 돈으로 짓고 코어위브는 빌려서 짓는다</b>는 차이가 가격에 반영돼 있다.</p><div class="sum3"><b>결론</b><br>코어위브는 <b>수요(잔고 $1,325억, 매출 +169%)는 진짜고 3분기에 영업 흑자로 돌아섰지만, 설비투자가 분기 $145억이라 현금으로 버티는 기간이 한 분기 미만이고 이자가 GAAP 영업이익의 4배인 회사</b>다. PEG는 산출 불가이고 EBITDA가 연 $111억은 돼야 순이익이 0이 된다. CTA는 8개 모두 매도(-1.00)다. 주가(11/10 종가 $48.73)는 실적 발표 전 가격이라 11/11 반응 확인 후 $46~50 분할 진입, 손절 $38, 목표 $56/$62가 원칙이다. 다음 확인 포인트는 4분기 설비투자·이자 가이던스, 조달 방식(부채 vs 주식), 3분기 말 현금이다.</div>
 
 <div class="pb"></div><div class="kicker" style="margin-top:2px">DEEP DIVE</div>
 <h1 style="margin-top:2px">심층분석</h1>
 <div class="meta">현금 런웨이·P/S, EBITDA·PEG, 가치 재투자 사이클을 숫자로 깊게 따져 본다.</div>
 
 <h2><span class="n">08</span>현금 런웨이와 P/S 비율</h2>
-<p><b>코어위브는 순손실 기업이라 런웨이가 의미 있다.</b> 현금으로 설비투자와 이자를 감당하지 못하는 만큼, '외부 자금 없이 버티는 기간'을 숫자로 점검했다.</p><table><tr><th style="width:20%">지표</th><th class="r">값</th><th>계산·출처</th><th>해석</th></tr>
-<tr><td>현금·현금성자산</td><td class="r"><b>$55.2억</b></td><td>2026.6.30 (트레이딩뷰 최근 분기는 $64.1억)</td><td>연초 $31.3억에서 증가</td></tr>
-<tr><td>영업현금흐름 (2Q26)</td><td class="r">$6.8억</td><td>회사 발표</td><td>설비투자의 10% 수준</td></tr>
-<tr><td>설비투자 (2Q26)</td><td class="r">$64.2억</td><td>회사 발표 (1H26 합계 $141억)</td><td>영업현금의 9배</td></tr>
-<tr class="hl"><td>분기 FCF (2Q26)</td><td class="r"><b>-$57.4억</b></td><td>$6.8억 - $64.2억</td><td>한 분기에 현금 $55.2억 전액 소진 가능한 속도</td></tr>
-<tr class="hl"><td>TTM FCF</td><td class="r"><b>-$136.6억</b></td><td>트레이딩뷰</td><td>최근 4분기</td></tr>
-<tr><td>이자비용 (2Q26 → 3Q26 전망)</td><td class="r">$6.4억 → $8.6~9.4억</td><td>3Q 전망은 보도 인용</td><td>연 약 $36억 수준으로 증가</td></tr>
+<p><b>코어위브는 순손실 기업이라 런웨이가 의미 있다.</b> 현금으로 설비투자와 이자를 감당하지 못하는 만큼, '외부 자금 없이 버티는 기간'을 숫자로 점검했다. 3분기 말 현금은 확인하지 못해 6월 말 현금을 기준으로 한 참고치다.</p><table><tr><th style="width:20%">지표</th><th class="r">값</th><th>계산·출처</th><th>해석</th></tr>
+<tr><td>현금·현금성자산</td><td class="r"><b>$55.2억</b></td><td>2026.6.30 (3분기 말은 미확인)</td><td>연초 $31.3억에서 증가</td></tr>
+<tr><td>영업현금흐름 (3Q26)</td><td class="r">약 $20억</td><td>보도 인용(콜 요약)</td><td>설비투자의 14%</td></tr>
+<tr><td>설비투자 (3Q26)</td><td class="r">$145.1억</td><td>보도 인용 (1~3Q 누계 약 $286억)</td><td>영업현금의 약 7배, 분기 최대</td></tr>
+<tr class="hl"><td>분기 FCF (3Q26)</td><td class="r"><b>-$125.1억</b></td><td>$20억 - $145.1억 (내 계산)</td><td>2분기(-$57.4억)의 2.2배</td></tr>
+<tr class="hl"><td>TTM FCF</td><td class="r"><b>-$254.7억</b></td><td>최근 4분기 합계 (내 계산, 회사 설비투자 기준)</td><td>트레이딩뷰 값(-$136.6억)은 2분기까지라 낡았다</td></tr>
+<tr><td>이자비용 (3Q26)</td><td class="r">$8.5억</td><td>회사 발표 (직전 전망 $8.6~9.4억)</td><td>연 약 $34억 수준</td></tr>
 </table>
 <h3>현금 런웨이 (외부 자금 없이 버티는 기간)</h3><table><tr><th style="width:34%">가정</th><th class="r">연 FCF</th><th class="r">현금 $55.2억 소진</th><th>의미</th></tr>
-<tr><td>2분기 속도 유지</td><td class="r">-$230억 (-$57.4억 × 4)</td><td class="r">약 0.96분기 (약 3개월)</td><td>한 분기도 못 버틴다는 뜻</td></tr>
-<tr><td>TTM 속도</td><td class="r">-$136.6억</td><td class="r">약 0.4년 (약 5개월)</td><td>트레이딩뷰 기준</td></tr>
-<tr><td>2026년 설비투자 $370억(보도 범위 중간값, 가정) 하반기 반영</td><td class="r">하반기 설비투자 $229억 - 영업현금 $20억 (가정)</td><td class="r">필요 외부 자금 약 $154억</td><td>현금 $55억을 쓰고도 약 $154억이 더 필요</td></tr>
+<tr><td>3분기 속도 유지</td><td class="r">-$500억 (-$125.1억 × 4)</td><td class="r">약 0.44분기 (약 6주)</td><td>현금이 한 분기의 절반도 못 버틴다는 뜻</td></tr>
+<tr><td>TTM 속도</td><td class="r">-$254.7억</td><td class="r">약 0.22년 (약 2.6개월)</td><td>내 계산</td></tr>
+<tr><td>4분기 설비투자 약 $73.5억(보도 연간 전망에서 역산, 가정)</td><td class="r">$73.5억 - 영업현금 $20억(가정)</td><td class="r">필요 외부 자금 약 $53.5억</td><td>6월 말 현금과 비슷한 규모를 4분기에도 조달해야 함</td></tr>
 </table>
-<p class='small'>2026년 설비투자 범위와 하반기 영업현금 $20억은 보도 인용과 내 가정이며 회사가 확인한 수치가 아니다. 런웨이는 '외부 자금 없이'라는 가정이며, 실제로는 대출·채권·전환사채·선수금으로 메우고 있다.</p><h3>P/S(주가매출비율) 심층</h3><table><tr><th>기준</th><th class="r">매출</th><th class="r">P/S</th><th>비고</th></tr>
-<tr><td>트레이딩뷰 표시값(11/6 환산)</td><td class="r">–</td><td class="r">3.2배</td><td>산출 기준 차이</td></tr>
-<tr class="hl"><td><b>최근 4분기(TTM)</b></td><td class="r">$75.9억</td><td class="r"><b>3.4배</b></td><td>시총 $256억 ÷ $75.9억</td></tr>
-<tr><td>2Q26 연율화</td><td class="r">$103.2억</td><td class="r">2.5배</td><td>$25.8억 × 4</td></tr>
-<tr><td>2026년 말 연환산 목표 (보도)</td><td class="r">$185~195억</td><td class="r">1.3~1.4배</td><td>달성 시. 2분기 대비 약 1.8배 필요</td></tr>
-<tr><td>동종·대형 클라우드</td><td class="r">–</td><td class="r">–</td><td>네비우스 24.5, 오라클 4.7, 아마존 3.4, 마이크로소프트 11.1</td></tr>
+<p class='small'>4분기 설비투자와 영업현금 $20억은 보도 인용과 내 가정이며 회사가 확인한 수치가 아니다. 런웨이는 '외부 자금 없이'라는 가정이며, 실제로는 대출·채권·전환사채·선수금으로 메우고 있다.</p><h3>P/S(주가매출비율) 심층</h3><table><tr><th>기준</th><th class="r">매출</th><th class="r">P/S</th><th>비고</th></tr>
+<tr><td>트레이딩뷰 표시값(11/9)</td><td class="r">–</td><td class="r">3.4배</td><td>2분기까지의 TTM 매출 기준이라 낡았다</td></tr>
+<tr class="hl"><td><b>최근 4분기(TTM, 3Q 포함)</b></td><td class="r">$98.9억</td><td class="r"><b>2.7배</b></td><td>시총 $269억 ÷ $98.9억 (내 계산)</td></tr>
+<tr><td>3Q26 연율화</td><td class="r">$146.4억</td><td class="r">1.8배</td><td>$36.6억 × 4</td></tr>
+<tr><td>동종·대형 클라우드</td><td class="r">–</td><td class="r">–</td><td>네비우스 26.8, 오라클 4.9, 아마존 3.6, 마이크로소프트 11.4 (11/9 스캐너)</td></tr>
 </table>
-<p><b>해석</b>: P/S 3.4배는 AI 인프라 중 가장 낮은 축이다. 다만 매출 1달러가 아직 순손실이고 차입금이 시가총액보다 크다(시총 $256억 vs 차입금 $351억). 시장은 매출 배수가 아니라 부채와 이자를 가격에 반영하고 있다. 매출 배수만 보고 싸다고 판단하면 안 된다.</p>
+<p><b>해석</b>: P/S 2.7배는 AI 인프라 중 가장 낮은 축이다. 다만 매출 1달러가 아직 순손실이고 차입금이 시가총액보다 크다(시총 $269억 vs 6월 말 차입금 $351억). 시장은 매출 배수가 아니라 부채와 이자를 가격에 반영하고 있다. 매출 배수만 보고 싸다고 판단하면 안 된다.</p>
 
 <h2><span class="n">09</span>EBITDA와 PEG</h2>
 <table><tr><th style="width:28%">지표</th><th class="r">값</th><th>판정</th></tr>
-<tr><td>EBITDA (트레이딩뷰, TTM)</td><td class="r"><b>$37.6억</b></td><td><span class="tag g">흑자</span></td></tr>
-<tr><td>조정 EBITDA (회사 정의, 최근 4분기 합계)</td><td class="r">$44.1억 ($8.4 + 9.0 + 11.6 + 15.1)</td><td>마진 58%</td></tr>
-<tr><td>TTM 영업이익률</td><td class="r">-3.0%</td><td>트레이딩뷰. 영업 단계에서 이미 적자</td></tr>
-<tr><td>EV/EBITDA</td><td class="r">약 18.8배</td><td>(시총 $256억 + 총부채 $516억 - 현금 $64억) ÷ $37.6억</td></tr>
-<tr><td>EBITDA 대비 이자 (2Q26)</td><td class="r">조정 EBITDA $15.1억 ÷ 이자 $6.4억 = 2.4배</td><td>3Q 이자 전망($8.6~9.4억) 반영 시 약 1.7배</td></tr>
+<tr><td>조정 EBITDA (회사 정의, 최근 4분기 합계)</td><td class="r"><b>$58.7억</b> ($9.0 + 11.6 + 15.1 + 23.0)</td><td>마진 59%</td></tr>
+<tr><td>3Q26 조정 EBITDA</td><td class="r">$23.0억</td><td>마진 63%</td></tr>
+<tr><td>TTM GAAP 영업이익률</td><td class="r">-0.7%</td><td>최근 4분기 영업이익 합계 -$0.7억 ÷ 매출 $98.9억. 거의 손익분기</td></tr>
+<tr><td>EV/조정 EBITDA</td><td class="r">약 12.3배</td><td>(시총 $269억 + 6월 말 총부채·리스 $516억 - 현금 $64억) ÷ $58.7억 (내 계산)</td></tr>
+<tr><td>EBITDA 대비 이자 (3Q26)</td><td class="r">조정 EBITDA $23.0억 ÷ 이자 $8.5억 = 2.7배</td><td>2분기 2.4배에서 소폭 개선</td></tr>
 </table>
-<h3>EBITDA에서 순손실까지의 다리 (2Q26)</h3><table><tr><th>단계</th><th class="r">금액</th><th>설명</th></tr>
-<tr><td>조정 EBITDA</td><td class="r">$15.1억</td><td>사업의 현금 마진 59%</td></tr>
-<tr><td>- 감가상각 등</td><td class="r">-$13.9억</td><td>새 GPU 서버가 매출을 내기 전에 비용 처리</td></tr>
-<tr><td>= 조정 영업이익</td><td class="r">$1.3억</td><td>마진 5%</td></tr>
-<tr><td>- 이자비용</td><td class="r">-$6.4억</td><td>조정 영업이익의 5배</td></tr>
-<tr class="hl"><td>= 순손실(기타 포함)</td><td class="r">-$6.3억</td><td>순이익률 -24%</td></tr>
+<h3>EBITDA에서 순손실까지의 다리 (3Q26)</h3><table><tr><th>단계</th><th class="r">금액</th><th>설명</th></tr>
+<tr><td>조정 EBITDA</td><td class="r">$23.0억</td><td>사업의 현금 마진 63%</td></tr>
+<tr><td>- 감가상각 등</td><td class="r">-$19.2억</td><td>새 GPU 서버가 매출을 내기 전에 비용 처리</td></tr>
+<tr><td>= 조정 영업이익</td><td class="r">$3.8억</td><td>마진 10%</td></tr>
+<tr><td>- 주식보상·무형자산 상각</td><td class="r">-$1.7억</td><td></td></tr>
+<tr><td>= GAAP 영업이익</td><td class="r">$2.1억</td><td>마진 6%</td></tr>
+<tr><td>- 순이자비용</td><td class="r">-$8.5억</td><td>GAAP 영업이익의 4배</td></tr>
+<tr><td>- 세금·기타</td><td class="r">-$0.7억</td><td></td></tr>
+<tr class="hl"><td>= 순손실</td><td class="r">-$7.1억</td><td>순이익률 -19%</td></tr>
 </table>
 <h3>PEG (PER ÷ EPS 성장률) 심층</h3><table><tr><th>방식</th><th class="r">PER</th><th class="r">EPS 성장률</th><th class="r">PEG</th><th>판정</th></tr>
-<tr><td>트레이딩뷰 (TTM)</td><td class="r">없음 (순손실)</td><td class="r">-47% (손실 확대)</td><td class="r">산출 불가</td><td><span class="tag bl">산출 불가</span></td></tr>
-<tr><td>선행 (2026년 흑자 전환 가정)</td><td class="r">–</td><td class="r">–</td><td class="r">산출 불가</td><td><span class="tag bl">산출 불가</span></td></tr>
+<tr><td>트레이딩뷰 (TTM)</td><td class="r">없음 (순손실)</td><td class="r">손실 지속</td><td class="r">산출 불가</td><td><span class="tag bl">산출 불가</span></td></tr>
+<tr><td>선행 (흑자 전환 가정)</td><td class="r">–</td><td class="r">–</td><td class="r">산출 불가</td><td><span class="tag bl">산출 불가</span></td></tr>
 </table>
-<p><b>판정: PEG는 산출 불가(순손실)이며 '투자 적격' 기준(1.0 이하)을 판정할 수 없다.</b> 대신 손익분기 조건을 계산했다. 감가상각 연 약 $56억(2분기 $13.9억 × 4)과 이자 연 약 $36억(3분기 전망 중간값 $9.0억 × 4)을 합치면 EBITDA가 연 $92억은 돼야 영업 단계에서 손실이 끝난다(내 계산, 감가상각·이자가 현재 수준 유지라는 가정). TTM 조정 EBITDA $44.1억의 약 2.1배다. 설비투자가 계속 늘기 때문에 감가상각·이자도 늘어 실제 필요 EBITDA는 이보다 높다.</p>
+<p><b>판정: PEG는 산출 불가(순손실)이며 '투자 적격' 기준(1.0 이하)을 판정할 수 없다.</b> 대신 손익분기 조건을 계산했다. 3분기 감가상각 등 $19.2억과 이자 $8.5억을 합치면 분기 $27.7억, 연 약 $111억이다. EBITDA가 연 $111억은 돼야 순이익이 0이 된다(내 계산, 비용이 3분기 수준 유지라는 가정). 이는 TTM 조정 EBITDA $58.7억의 약 1.9배이고 3분기 연율화($92억)의 1.2배다. 설비투자가 계속 늘기 때문에 감가상각·이자도 늘어 실제 필요 EBITDA는 더 높다.</p>
 
 <h2 class="pb"><span class="n">10</span>가치 재투자 사이클</h2>
 <img class="ch" src="c_cycle.png"><p>코어위브 사이클의 엔진은 <b>대형 고객의 장기 계약(잔고)</b>이다. 계약이 선수금과 매출 근거가 되고, 그 계약을 담보로 빚을 내 GPU와 데이터센터를 사며, 가동된 용량이 다시 매출이 된다. 이 고리는 매출을 빠르게 키우지만 <b>빚과 이자, 감가상각이 매출만큼 빠르게 자라</b> 이익이 남지 않는다.</p><table><tr><th style="width:16%">고리</th><th>현재 숫자</th><th>고리 강도</th><th>약해지는 신호</th></tr>
-<tr><td>① 계약 확보</td><td>잔고 약 $1,040억 + 신규 $250억 이상, 계약 전력 4.2GW</td><td><span class="tag g">강함</span></td><td>잔고 증가 둔화, 대형 고객 계약 조정</td></tr>
-<tr><td>② 매출 전환</td><td>2Q 매출 $25.8억(+112%), 가동 1.5GW</td><td><span class="tag g">강함</span></td><td>데이터센터 완공·전력 지연(2025년 11월 사례)</td></tr>
-<tr><td>③ 차입</td><td>차입금 $351억, 2Q 발행 $135억, 리스 $163억, 자기자본 $50억</td><td><span class="tag b">과속</span></td><td>금리 상승, 신용 스프레드 확대</td></tr>
-<tr><td>④ 설비투자</td><td>1H $141억, 2026년 $350~390억(보도), 영업현금의 약 9배</td><td><span class="tag b">과속</span></td><td>자금 조달이 설비투자를 못 따라감</td></tr>
-<tr><td>⑤ 가동·확장</td><td>1.5GW → 2030년 8GW 목표, 베라 루빈 첫 가동</td><td><span class="tag y">진행 중</span></td><td>신제품 주기 단축으로 구형 GPU 단가 하락</td></tr>
-<tr><td>⑥ 감가상각·이자</td><td>감가상각 $13.9억(2.5배), 이자 $6.4억 → 3Q 전망 $8.6~9.4억</td><td><span class="tag b">부담</span></td><td>이자가 조정 EBITDA의 절반을 넘음</td></tr>
+<tr><td>① 계약 확보</td><td>잔고 $1,325억(2Q 약 $1,040억), 계약 전력 4.6GW</td><td><span class="tag g">강함</span></td><td>잔고 증가 둔화, 대형 고객 계약 조정</td></tr>
+<tr><td>② 매출 전환</td><td>3Q 매출 $36.6억(+169%), 가동 1.7GW</td><td><span class="tag g">강함</span></td><td>데이터센터 완공·전력 지연(2025년 11월 사례)</td></tr>
+<tr><td>③ 차입</td><td>6월 말 차입금 $351억, 2Q 발행 $135억, 리스 $163억, 자기자본 $50억(3Q 재무상태표 미확인)</td><td><span class="tag b">과속</span></td><td>금리 상승, 신용 스프레드 확대</td></tr>
+<tr><td>④ 설비투자</td><td>1~3Q 누계 약 $286억, 3Q 단독 $145.1억, 영업현금의 약 7배</td><td><span class="tag b">과속</span></td><td>자금 조달이 설비투자를 못 따라감</td></tr>
+<tr><td>⑤ 가동·확장</td><td>1.7GW → 2030년 8GW 목표, 베라 루빈 첫 가동</td><td><span class="tag y">진행 중</span></td><td>신제품 주기 단축으로 구형 GPU 단가 하락</td></tr>
+<tr><td>⑥ 감가상각·이자</td><td>감가상각 등 $19.2억, 이자 $8.5억(2Q $6.4억)</td><td><span class="tag b">부담</span></td><td>이자가 조정 EBITDA의 3분의 1을 넘음</td></tr>
 </table>
 <p><b>이 사이클의 구조</b>: 오라클과 같은 구조지만 <b>자체 현금 창출이 사실상 없고 자기자본이 얇다</b>. 수요는 강한데(①②) 돈의 고리(③④⑥)가 사이클의 속도를 정한다. 강한 고리는 ①·②이고 약한 고리는 ③·④·⑥이다. 이 종목에서는 매출 성장률보다 조달 금리와 조달 방식(부채 vs 주식)이 다음 주가를 정한다.</p>
